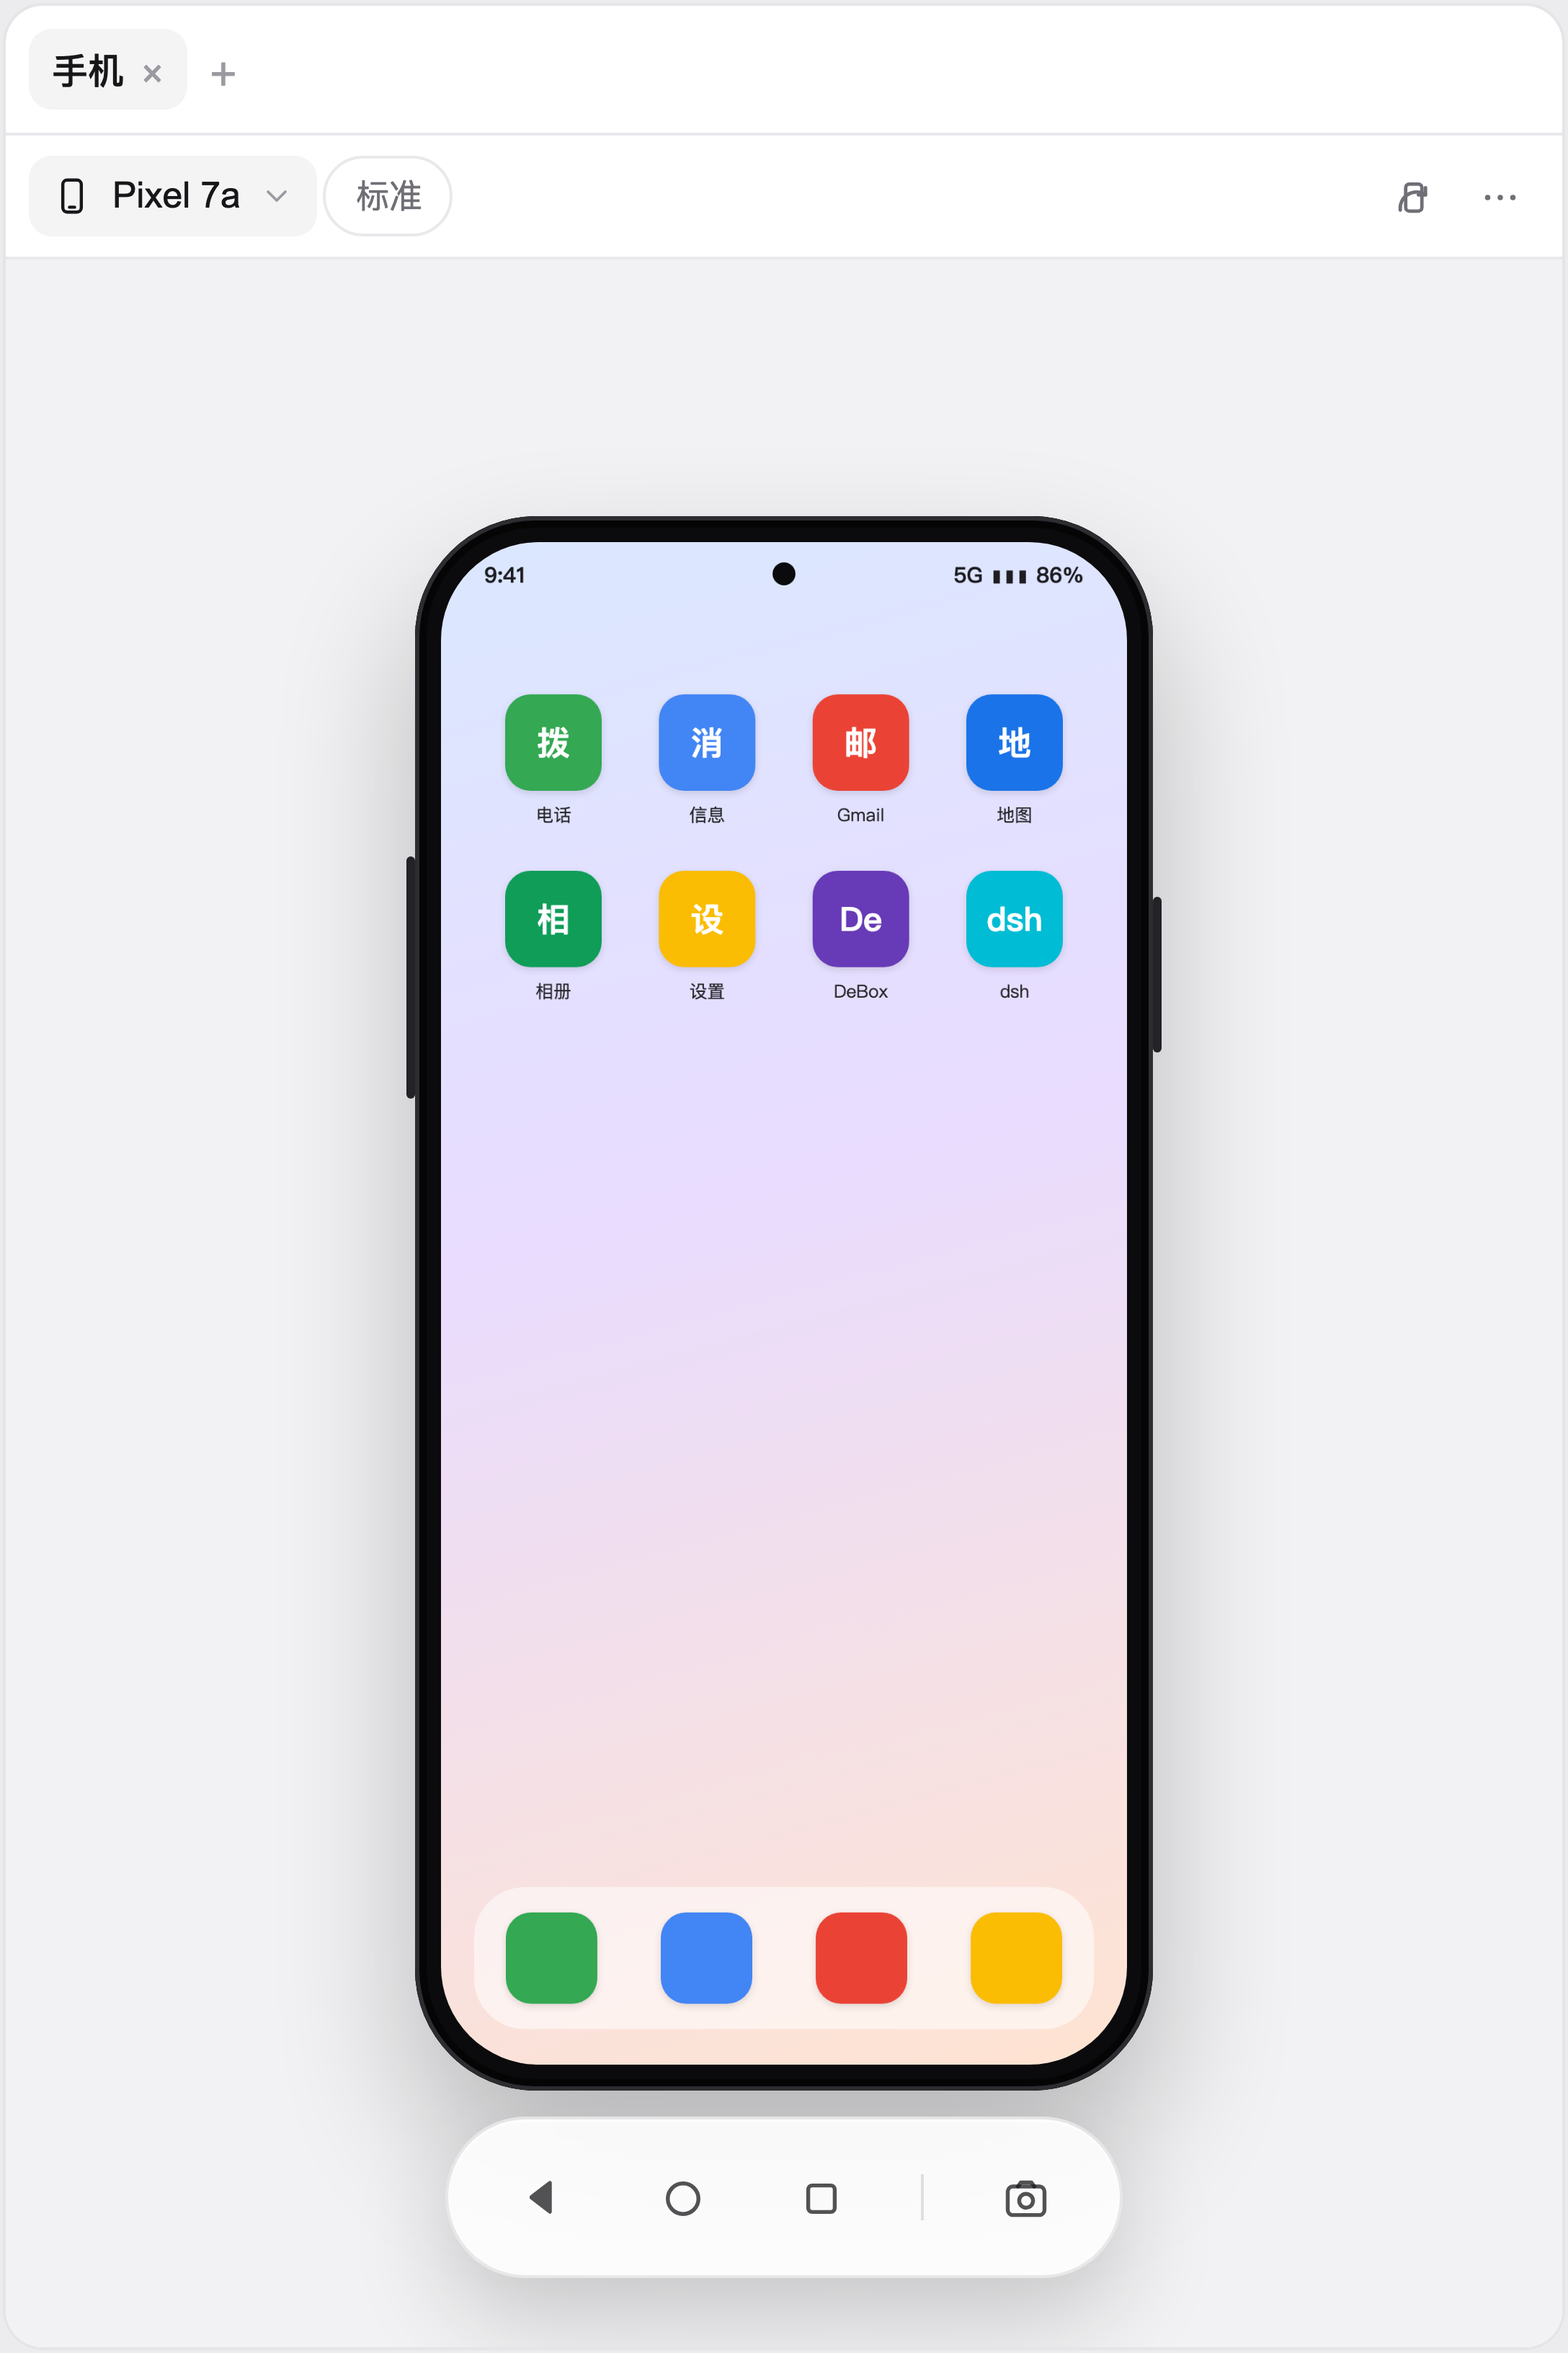
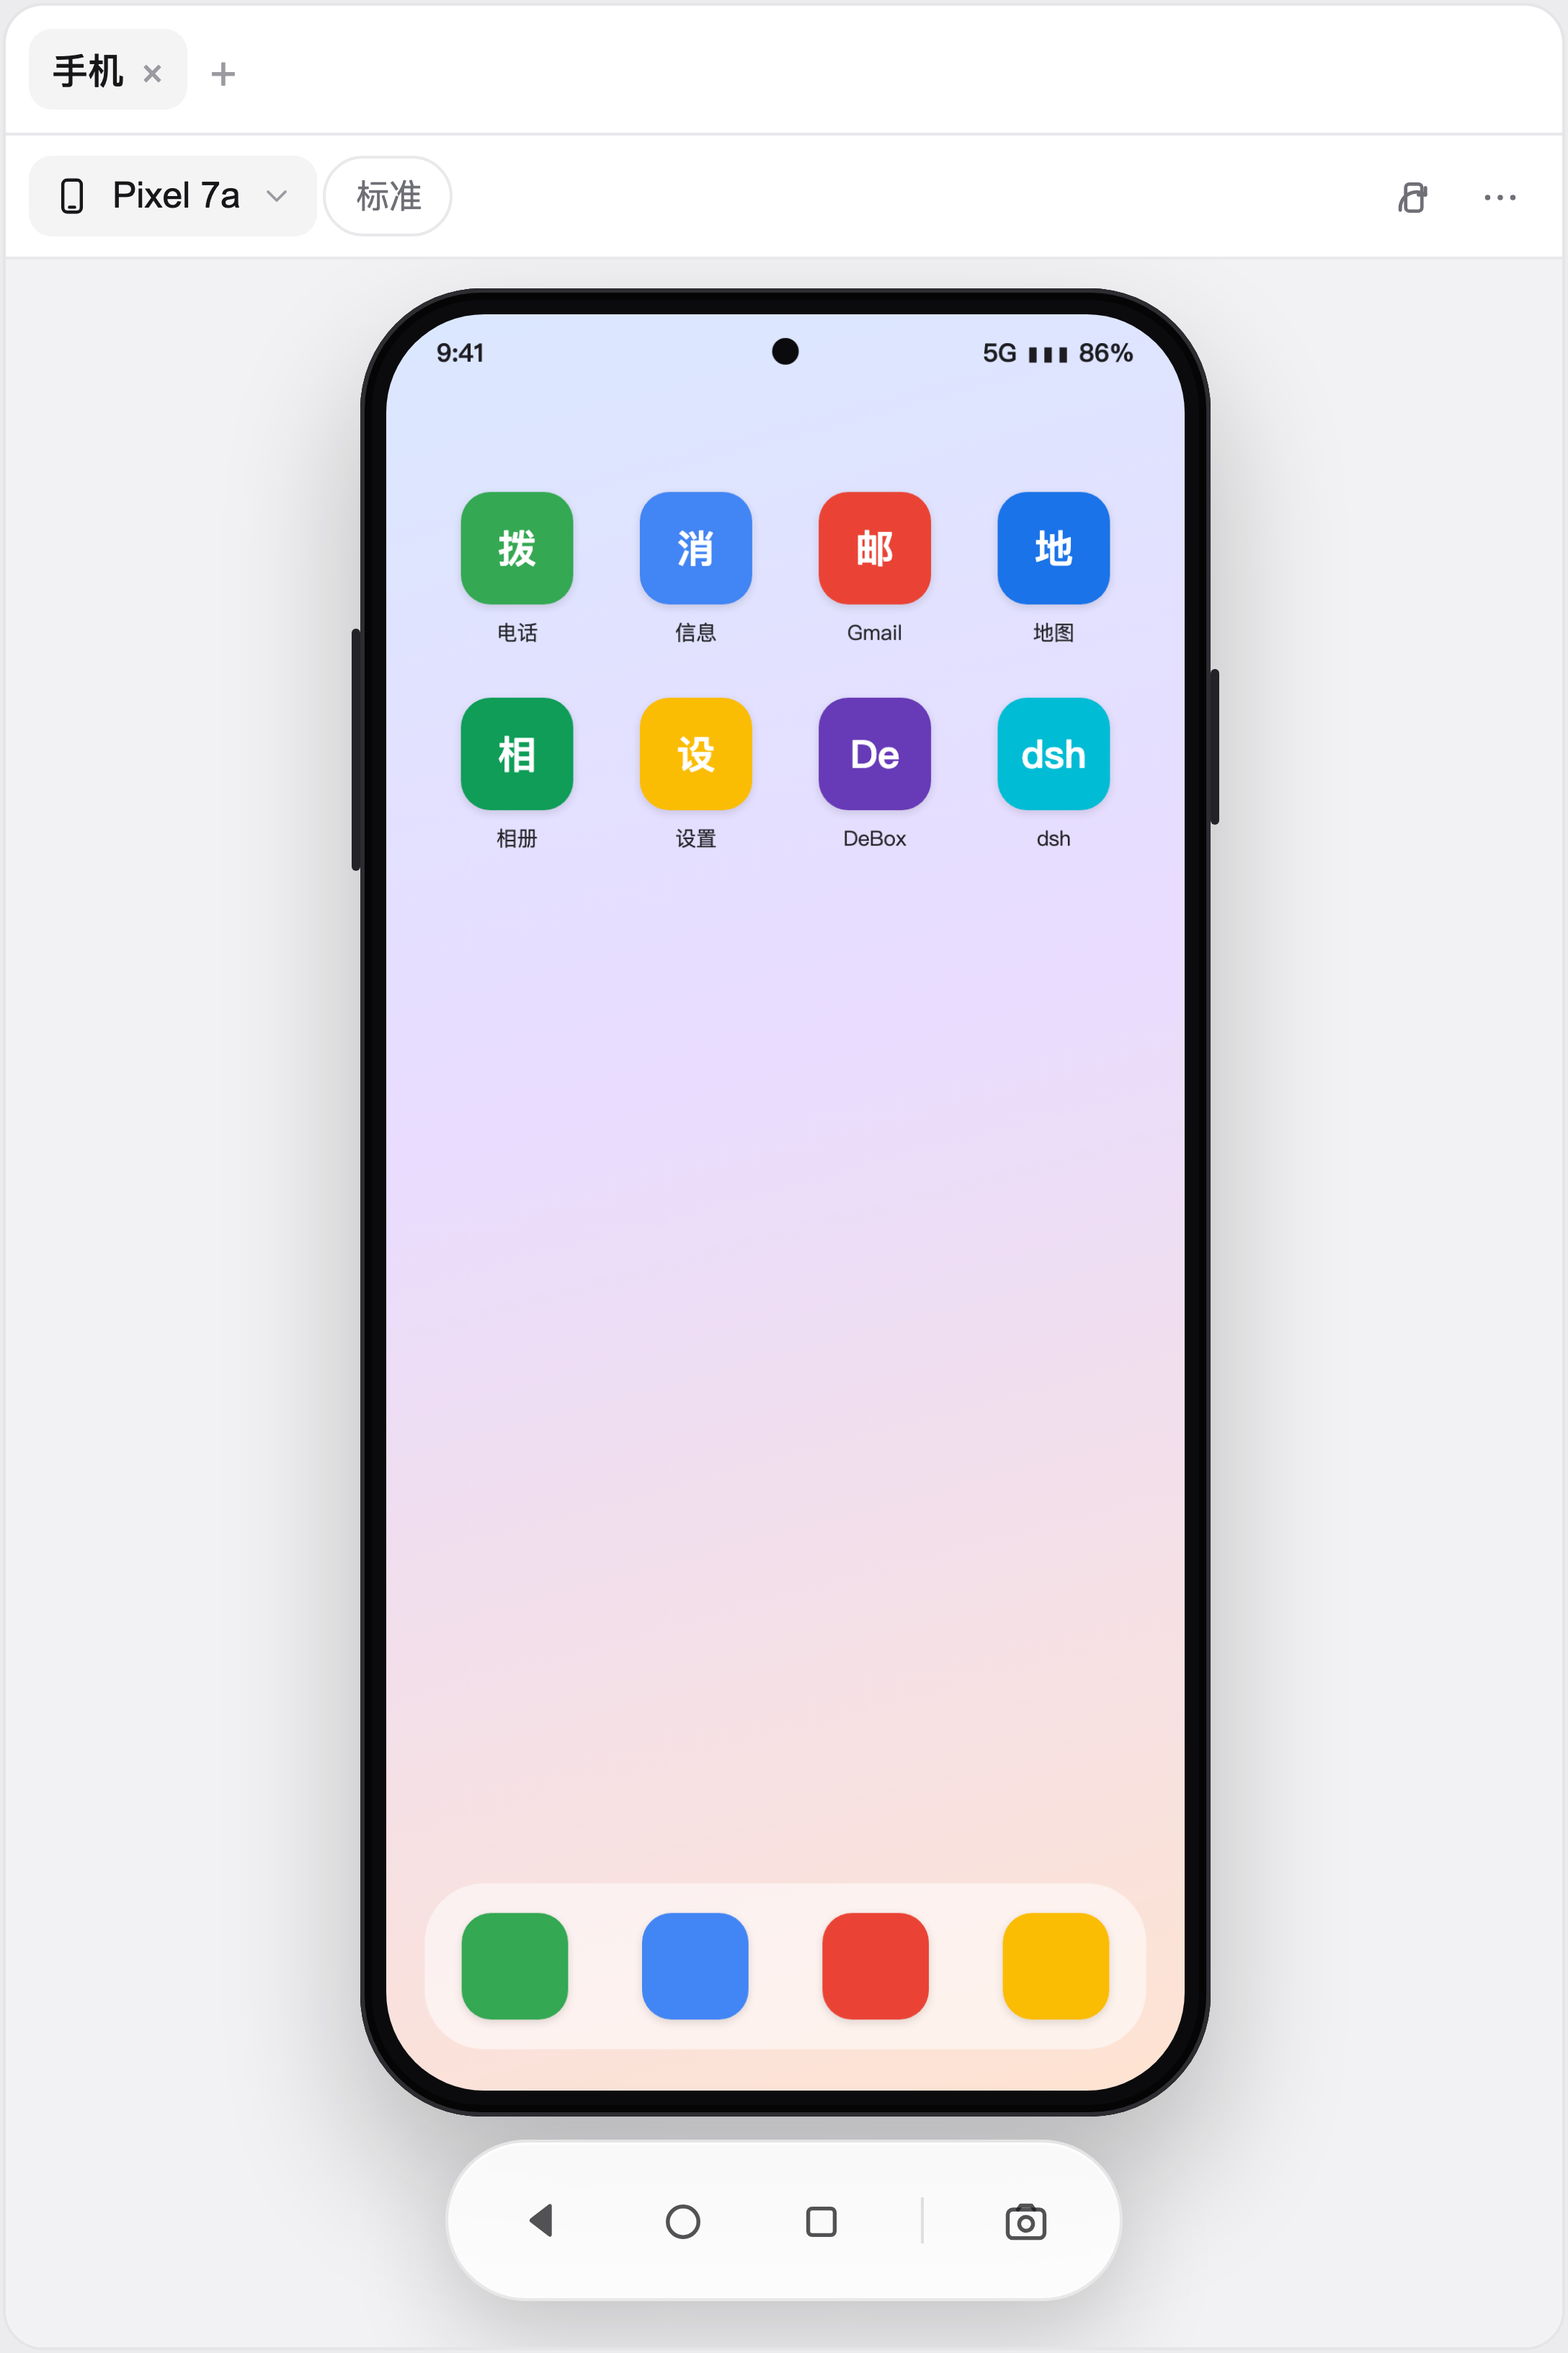
style(preview): 画面尽量铺满 + 沉浸模式
- 舞台改为顶部对齐、padding 压到 10/12，胶囊区预留从 196 降到 108，画面高度 ~62% -> ~88%
- 新增 ⋯ → 沉浸模式：隐藏胶囊，画面再放大（localStorage 记忆）
- 修正 .dph-stage 重复样式导致的居中/重叠问题

Changed region(s): [[0.2188, 0.125, 0.7812, 1.0], [0.5, 0.8125, 0.5312, 0.8438]]

diff --git a/lib/client.js b/lib/client.js
@@ -51,6 +51,8 @@ window.__ModuleLoader__.load({
       saved: '已保存',
       diagnostics: 'adb 诊断',
       quality: '显示清晰度',
+      immersiveOn: '沉浸模式',
+      immersiveOff: '显示操作栏',
       qualityLow: '流畅',
       qualityMedium: '标准',
       qualityHigh: '高清',
@@ -99,6 +101,8 @@ window.__ModuleLoader__.load({
       saved: 'Saved',
       diagnostics: 'adb diagnostics',
       quality: 'Stream quality',
+      immersiveOn: 'Immersive mode',
+      immersiveOff: 'Show controls',
       qualityLow: 'Low',
       qualityMedium: 'Medium',
       qualityHigh: 'High',
@@ -147,14 +151,15 @@ window.__ModuleLoader__.load({
 .dph-emptypadding{padding:26px 20px;color:var(--dsw-alias-label-tertiary,#9a9aa1);font-size:12.5px;line-height:1.7}
 .dph-link{color:var(--dsw-alias-brand-primary,#3b6cff);cursor:pointer;background:none;border:0;padding:0;font:inherit}
 
-.dph-navbar{position:absolute;z-index:6;left:50%;bottom:24px;transform:translateX(-50%);display:flex;align-items:center;gap:6px;padding:6px 12px;border-radius:999px;border:1px solid color-mix(in srgb,var(--dsw-alias-label-primary,#17171a) 9%,transparent);background:color-mix(in srgb,var(--dsw-alias-bg-layer-1,#fff) 86%,transparent);-webkit-backdrop-filter:blur(20px) saturate(1.6);backdrop-filter:blur(20px) saturate(1.6);box-shadow:0 14px 34px rgba(0,0,0,.18),inset 0 1px 0 color-mix(in srgb,var(--dsw-alias-bg-layer-1,#fff) 65%,transparent)}
+.dph-stage.dph-stage-imm{align-items:center;padding:14px 12px}
+.dph-navbar{position:absolute;z-index:6;left:50%;bottom:16px;transform:translateX(-50%);display:flex;align-items:center;gap:6px;padding:6px 12px;border-radius:999px;border:1px solid color-mix(in srgb,var(--dsw-alias-label-primary,#17171a) 9%,transparent);background:color-mix(in srgb,var(--dsw-alias-bg-layer-1,#fff) 86%,transparent);-webkit-backdrop-filter:blur(20px) saturate(1.6);backdrop-filter:blur(20px) saturate(1.6);box-shadow:0 14px 34px rgba(0,0,0,.18),inset 0 1px 0 color-mix(in srgb,var(--dsw-alias-bg-layer-1,#fff) 65%,transparent)}
 .dph-navbtn{width:42px;height:42px;border:0;border-radius:999px;background:transparent;color:color-mix(in srgb,var(--dsw-alias-label-primary,#17171a) 74%,transparent);display:inline-grid;place-items:center;cursor:pointer;padding:0;transition:background .15s ease,transform .1s ease}
 .dph-navbtn:hover{background:color-mix(in srgb,var(--dsw-alias-label-primary,#17171a) 8%,transparent);color:var(--dsw-alias-label-primary,#17171a)}
 .dph-navbtn:active{transform:scale(.94)}
 .dph-navsep{width:1px;height:16px;background:color-mix(in srgb,var(--dsw-alias-label-primary,#17171a) 12%,transparent);margin:0 8px}
 .dph-danger{color:var(--dsw-alias-label-secondary,#6f6f76)}
 .dph-danger.armed{color:var(--dsw-alias-state-error-primary,#dc2626);font-weight:600}
-.dph-stage{flex:1 1 auto;min-height:0;background:var(--dsw-alias-bg-layer-2,#f2f2f4);display:flex;align-items:center;justify-content:center;position:relative;overflow:hidden}
+.dph-stage{flex:1 1 auto;min-height:0;background:var(--dsw-alias-bg-layer-2,#f2f2f4);display:flex;align-items:flex-start;justify-content:center;position:relative;overflow:hidden;padding:10px 12px}
 .dph-phone{position:relative;border-radius:42px;background:#0b0b0d;padding:9px;box-sizing:border-box;box-shadow:inset 0 0 0 1.5px #2c2c31,inset 0 0 0 4px #050506,0 24px 48px rgba(0,0,0,.24)}
 .dph-phone:before{content:"";position:absolute;left:-3px;top:118px;width:3px;height:84px;border-radius:2px;background:#232327}
 .dph-phone:after{content:"";position:absolute;right:-3px;top:132px;width:3px;height:54px;border-radius:2px;background:#232327}
@@ -260,6 +265,18 @@ window.__ModuleLoader__.load({
           return h('svg', p, h('path', { d: 'm6 9 6 6 6-6' }))
         case 'back':
           return h('svg', p, h('path', { d: 'm15 18-6-6 6-6' }))
+        case 'expand':
+          return h(
+            'svg',
+            p,
+            h('path', { d: 'M9 4H4v5M15 4h5v5M9 20H4v-5M15 20h5v-5' }),
+          )
+        case 'collapse':
+          return h(
+            'svg',
+            p,
+            h('path', { d: 'M4 9h5V4M20 9h-5V4M4 15h5v5M20 15h-5v5' }),
+          )
         case 'navBack':
           return h(
             'svg',
@@ -774,7 +791,7 @@ window.__ModuleLoader__.load({
       return status
     }
 
-    function usePreview(serial, visible, t, quality) {
+    function usePreview(serial, visible, t, quality, immersive) {
       const stageRef = useRef(null)
       const canvasRef = useRef(null)
       const pointerRef = useRef(null)
@@ -815,8 +832,8 @@ window.__ModuleLoader__.load({
           const width = el.clientWidth
           const height = el.clientHeight
           if (!width || !height) return
-          const availW = Math.max(60, width - 60)
-          const availH = Math.max(120, height - 196)
+          const availW = Math.max(60, width - 24)
+          const availH = Math.max(120, height - (immersive ? 28 : 108))
           const screenW = Math.min(availW, availH * ratio)
           setSize({ w: Math.round(screenW), h: Math.round(screenW / ratio) })
         }
@@ -832,7 +849,7 @@ window.__ModuleLoader__.load({
           window.removeEventListener('resize', measure)
         }
         // serial 变化时 stage 才挂载，effect 需要重跑一次才能量到尺寸
-      }, [ratio, serial])
+      }, [ratio, serial, immersive])
 
       useEffect(() => {
         if (CAN_STREAM && streamStatus !== 'fallback') return undefined
@@ -969,6 +986,7 @@ window.__ModuleLoader__.load({
         streamStatus,
         size,
         ratio,
+        immersive,
         deviceSize,
         frameUrl,
         error: errorNow,
@@ -1009,6 +1027,13 @@ window.__ModuleLoader__.load({
       })
       const [targets, setTargets] = useState([])
       const [diagOpen, setDiagOpen] = useState(false)
+      const [immersive, setImmersive] = useState(() => {
+        try {
+          return localStorage.getItem('dsh-phone-immersive') === '1'
+        } catch {
+          return false
+        }
+      })
       const [disconnectArmed, setDisconnectArmed] = useState(false)
       const { devices, error, reload } = useDeviceList(visible, nonce)
       const quality = selected && QUALITY_ORDER.includes(qualityMap[selected]) ? qualityMap[selected] : 'medium'
@@ -1022,7 +1047,7 @@ window.__ModuleLoader__.load({
           return map
         })
       }
-      const preview = usePreview(selected, visible && Boolean(selected), t, quality)
+      const preview = usePreview(selected, visible && Boolean(selected), t, quality, immersive)
 
       useEffect(() => {
         let alive = true
@@ -1135,6 +1160,18 @@ window.__ModuleLoader__.load({
               .connect(selected)
               .then(() => preview.setToast(t('reconnect')))
               .catch((err) => preview.setToast(err && err.message ? err.message : 'reconnect failed'))
+          },
+        },
+        {
+          id: 'immersive',
+          icon: immersive ? 'collapse' : 'expand',
+          label: t(immersive ? 'immersiveOff' : 'immersiveOn'),
+          run: () => {
+            const next = !immersive
+            setImmersive(next)
+            try {
+              localStorage.setItem('dsh-phone-immersive', next ? '1' : '0')
+            } catch {}
           },
         },
         {
@@ -1385,7 +1422,7 @@ window.__ModuleLoader__.load({
 
       const stage = h(
         'div',
-        { className: 'dph-stage', ref: preview.stageRef },
+        { className: 'dph-stage' + (preview.immersive ? ' dph-stage-imm' : ''), ref: preview.stageRef },
         h(
           'div',
           {
@@ -1478,7 +1515,7 @@ window.__ModuleLoader__.load({
             ),
           ]
 
-      const navbar = selected
+      const navbar = selected && !preview.immersive
         ? h(
             'div',
             { className: 'dph-navbar' },

diff --git a/CHANGELOG.md b/CHANGELOG.md
@@ -21,5 +21,6 @@
 - 胶囊细节：返回键改为 Android 三角、按钮 42px、上下留距 24px、玻璃材质（blur + 高光 + 阴影）
 - 修复云手机画面比例：`wm size` 优先 Override size；流的 size 按设备实际比例等比缩放（同一档在不同设备输出不同分辨率）
 - 清晰度改为按设备 serial 记忆；只在选中设备后显示切换按钮
+- 预览放大：顶部对齐、边距压到最小（高度约占舞台 88%）；`⋯ → 沉浸模式` 可隐藏胶囊再放大
 - 设备图标按系统显示：Android 机器人 / HarmonyOS / iOS（iOS 待 transport），22px 实心标记、无底色；行内同时显示连接方式与系统两个小标签
 - 测试：`npm run smoke`（含 targets 存储、getprop 解析、平台判定）、`scripts/render-test.mjs`（列表/预览/浮窗/诊断/流五种状态）
